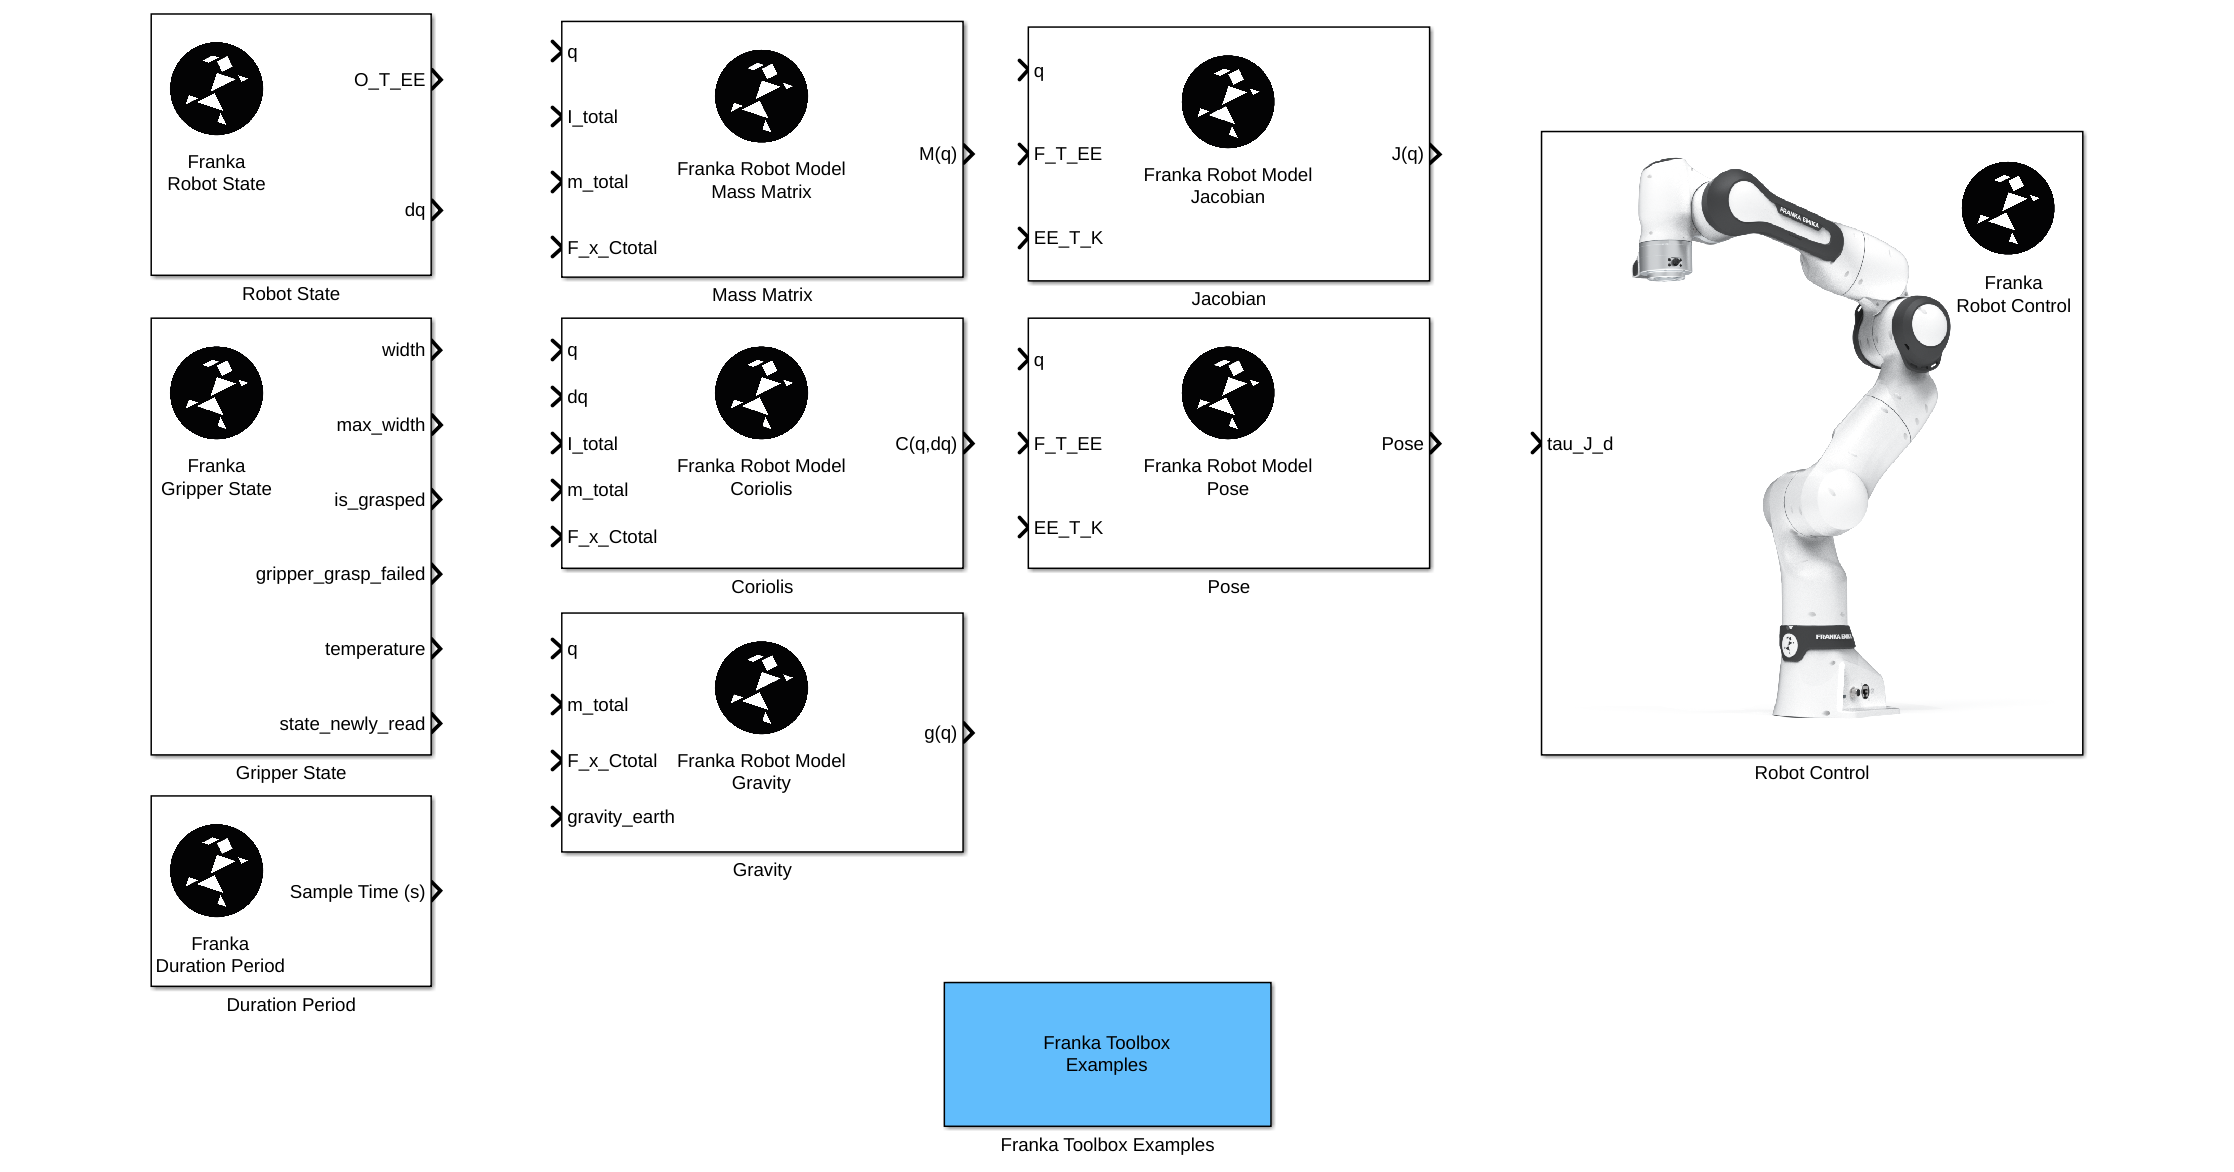
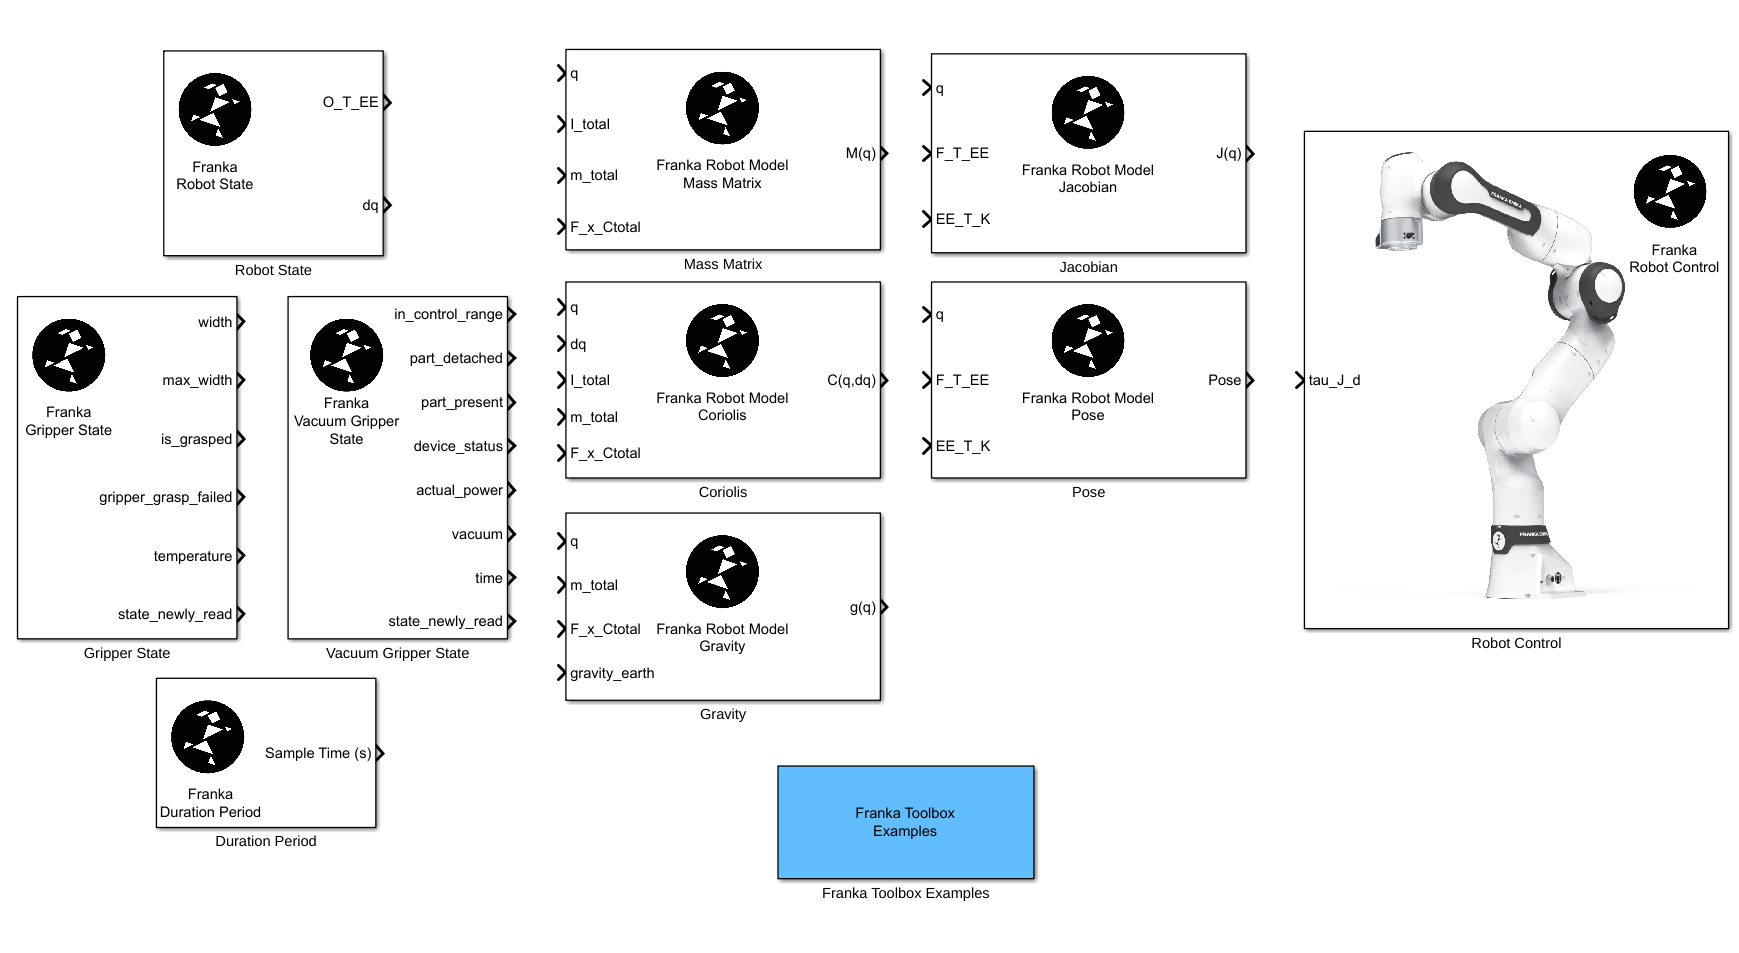
simulink lib pic, compatibility, requirements pages update

diff --git a/source/franka_matlab/system_requirements.rst b/source/franka_matlab/system_requirements.rst
@@ -4,21 +4,10 @@ System Requirements
 Host PC Requirements
 --------------------
 
-MATLAB Version - Host PC OS Compatibility
-^^^^^^^^^^^^^^^^^^^^^^^^^^^^^^^^^^^^^^^^^
-
-The Host PC is the machine responsible for running MATLAB and Simulink.
-
-+-------------------------+-------------------+----------------------------------------------------------------------------------------------------------+
-| Franka Toolbox Version  | MATLAB Version    | Host PC OS  / Ubuntu Version                                                                             |
-+=========================+===================+==========================================================================================================+
-| 2.0.0                   | R2022a or newer   |  [`Matlab System Requirements <https://www.mathworks.com/support/requirements/previous-releases.html>`_] |
-+-------------------------+-------------------+----------------------------------------------------------------------------------------------------------+
-
 MATLAB Toolbox Dependencies
 ^^^^^^^^^^^^^^^^^^^^^^^^^^^
 
-The following Mathworks products are required: 
+The following Mathworks products are required for the Host PC: 
 
 * `MATLAB <https://www.mathworks.com/products/matlab.html>`_ 
 * `Simulink <https://www.mathworks.com/products/simulink.html>`_
@@ -34,101 +23,28 @@ MATLAB Coder Support Package for NVIDIA Jetson
 ^^^^^^^^^^^^^^^^^^^^^^^^^^^^^^^^^^^^^^^^^^^^^^^
 **For working with the Franka AI Companion & NVIDIA Jetson platforms** please download and install the `MATLAB Coder Support Package for NVIDIA Jetson and NVIDIA DRIVE Platforms <https://www.mathworks.com/matlabcentral/fileexchange/68644-matlab-coder-support-package-for-nvidia-jetson-and-nvidia-drive-platforms>`_.
 
-Target PC - AI Companion
-------------------------
-
-.. _system_dependencies_precompiled_ai_companion:
-
-The Franka Toolbox for MATLAB ships with prebuilt libfranka and other binaries which are built based on the following AI Companion Target PC Ubuntu version:
-
-+-------------------------+---------------------------------------------+
-| Franka Toolbox Version  | Target PC Ubuntu Version (recommended)      |
-+=========================+=============================================+
-| 2.0.0                   | 20.04 LTS                                   |
-+-------------------------+---------------------------------------------+
-
-precompiled libfranka system dependencies
-^^^^^^^^^^^^^^^^^^^^^^^^^^^^^^^^^^^^^^^^^
-
-+--------------+------------------------+--------------------------------------------------------------------------+
-| Franka Robot | libfranka Version      | System Dependency                                                        |
-+==============+========================+==========================================================================+
-| FR3          | 0.14.0                 | libpoco-dev (1.9.2-3ubuntu3 - Ubuntu-20.04 default), pinocchio (2.7.1)   |
-+--------------+------------------------+--------------------------------------------------------------------------+
-| FER          | 0.9.2                  | libpoco-dev (1.9.2-3ubuntu3 - Ubuntu-20.04 default)                      |
-+--------------+------------------------+--------------------------------------------------------------------------+
-
-
-To install the required version of libpoco-dev on your system, you can use the following commands for Ubuntu-20.04:
-
-.. code-block:: shell
-
-    sudo apt-get update
-    sudo apt-get install libpoco-dev
-
-For installing the required version of pinocchio, please refer to the `Pinocchio installation documentation <https://stack-of-tasks.github.io/pinocchio/download.html>`_.
-
-.. warning::
-
-    In case the system dependencies cannot be met for libfranka, you can build and install libfranka from source, system-wide or locally in the scope of the Franka Toolbox only.
-    For handling options, see :ref:`libfranka handling options for Target PC<libfranka_handling_options>`.
-
-
-Target PC - RT Linux Host
--------------------------
-
-System requirements when the Host & Target PC are the same machine.
-
-System Requirements
-^^^^^^^^^^^^^^^^^^^
-
-Make sure that your target PC configuration complies with the following documentation.
-
-1. `Franka Robot System Compatibility Documentation <https://frankaemika.github.io/docs/compatibility.html>`_ .
-2. `System Requirements <https://frankaemika.github.io/docs/requirements.html#>`_ .
-3. `Setting Up the Real-Time Kernel <https://frankaemika.github.io/docs/installation_linux.html#setting-up-the-real-time-kernel>`_.
-
-The Franka Toolbox for MATLAB ships with prebuilt libfranka and other binaries which are built based on the following Target PC Ubuntu version:
-
-+-------------------------+-----------------------------------------------------+
-| Franka Toolbox Version  | Target AI Companion PC Ubuntu Version (recommended) |
-+=========================+=====================================================+
-| 2.0.0                   | 22.04 LTS                                           |
-+-------------------------+-----------------------------------------------------+
-
 MATLAB Support Package for Linux
 ^^^^^^^^^^^^^^^^^^^^^^^^^^^^^^^^
-In case where there is a single Ubuntu Host & Target machine, please ensure that 
-you have installed the `matlab-support package <https://packages.ubuntu.com/search?keywords=matlab-support>`_ 
+In case of Ubuntu Target PC, it is highly recommended to install the `matlab-support package <https://packages.ubuntu.com/search?keywords=matlab-support>`_ 
 in order for Matlab to reference the system dynamic libraries instead of the precompiled ones that it ships with:
 
 .. code-block:: shell
 
     sudo apt install matlab-support
 
-.. _system_dependencies_precompiled_rt_linux_host:
+Target PC - AI Companion
+------------------------
 
-precompiled libfranka system dependencies
-^^^^^^^^^^^^^^^^^^^^^^^^^^^^^^^^^^^^^^^^^
+.. _system_dependencies_precompiled_ai_companion:
 
-Franka Toolbox comes with prebuilt libfranka which requires the following system dynamic libraries:
+The Franka Toolbox for MATLAB ships with a precompiled libfranka and all its 3d party dependencies for the Target PC and it should be able to execute out-of-the-box without additional installations,
+given that the Target PC is running a supported version of Ubuntu as defined below.
 
-+--------------+------------------------+-------------------------------------------------------------------+
-| Franka Robot | libfranka Version      | System Dependency                                                 |
-+==============+========================+===================================================================+
-| FR3          | 0.14.0                 | libpoco-dev (1.11.0-3 - Ubuntu-22.04 default), pinocchio (3.2.0)  |
-+--------------+------------------------+-------------------------------------------------------------------+
-| FER          | 0.9.2                  | libpoco-dev (1.11.0-3 - Ubuntu-22.04 default)                     |
-+--------------+------------------------+-------------------------------------------------------------------+
-
-To install the required version of libpoco-dev on your system, you can use the following commands for Ubuntu-22.04:
-
-.. code-block:: shell
-
-    sudo apt-get update
-    sudo apt-get install libpoco-dev
-
-For installing the required version of pinocchio, please refer to the `Pinocchio installation documentation <https://stack-of-tasks.github.io/pinocchio/download.html>`_.
++-------------------------+---------------------------------------------+----------------------------------------------+
+| Franka Toolbox Version  | AI Companion/Jetson Orin Platform           |  Real-Time kernel Linux Host PC as Target PC |
++=========================+=============================================+==============================================+
+| 3.0.0                   | Ubuntu 22.04 LTS                            |  Ubuntu 22.04 LTS                            |
++-------------------------+---------------------------------------------+----------------------------------------------+
 
 .. warning::
 

diff --git a/source/franka_matlab/compatibility.rst b/source/franka_matlab/compatibility.rst
@@ -9,6 +9,8 @@ Compatibility with Matlab & libfranka
 +------------------------+-------------------+----------------------------+
 | Franka MATLAB version  | libfranka version | Matlab Version             |
 +========================+===================+============================+
+| 3.0.0                  | 0.15.0            | :math:`\geq` R2023a        |
++------------------------+-------------------+----------------------------+ 
 | 2.0.0                  | 0.9.x & 0.14.x    | :math:`\geq` R2022a        |
 +------------------------+-------------------+----------------------------+ 
 | 1.0.0                  | 0.9.x & 0.13.x    | :math:`\geq` R2021a        |
@@ -26,11 +28,6 @@ Compatibility with Matlab & libfranka
 | 0.1.0                  | 0.7.1             | R2019a                     |
 +------------------------+-------------------+----------------------------+
 
-`libfranka and robot system compatibility <https://frankaemika.github.io/docs/compatibility.html>`_
-
 .. important::
-    The `pick_and_place_with_RRT.mlx` Matlab demo is compatible with Matlab :math:`\geq` R2021b, as the required libraries from the Matlab Robotics Toolbox have only introduced since then.
-
-.. important::
-    Make sure that you've installed and set up Matlab with a compatible compiler version! You can find the list of Matlab 
-    compatible compilers in `this link <https://www.mathworks.com/support/requirements/supported-compilers.html>`_.
+    Check the `Matlab System Requirements <https://www.mathworks.com/support/requirements/previous-releases.html>`_ for your Host PC OS compatibility
+    as well as the `libfranka and robot system compatibility <https://frankaemika.github.io/docs/compatibility.html>`_.

diff --git a/source/franka_matlab/CHANGELOG.md b/source/franka_matlab/CHANGELOG.md
@@ -1,5 +1,11 @@
 # Changelog:
 
+## 3.0.0 (16-05-2025)
+   
+   - **BREAKING** New FrankaRobot() implementation for supporting robot control through AI Companion/Jetson and a non-real time Host PC Windows/Linux
+   - MATLAB & Simulink implementation for the Franka Vacuum Gripper added.
+   - Default project pre-binaries for libfranka 0.15.0 bundled with all 3d party runntime dependencies.The project should be able to execute out-of-the-box without additional installations.
+
 ## 2.0.0 (20-11-2024)
 
    - **BREAKING** libfranka pre-built binaries now are contained in the project. No separate installation is required.
